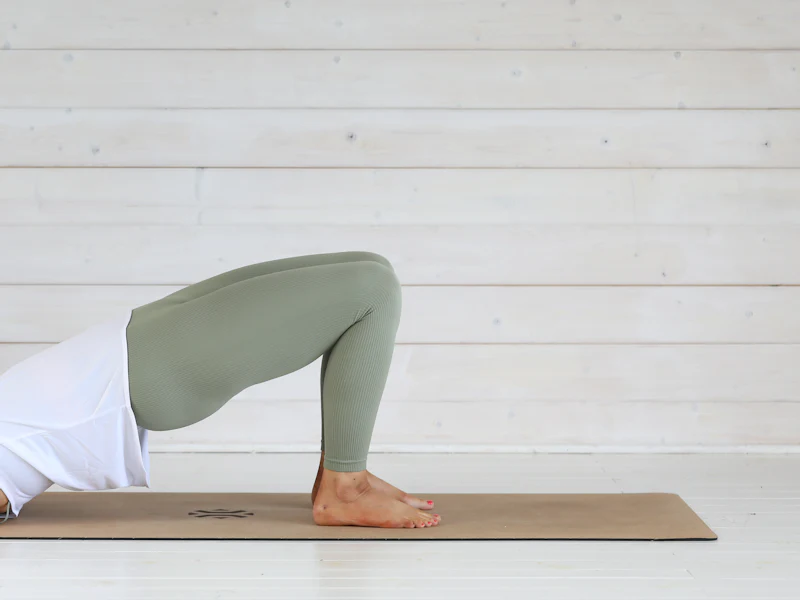
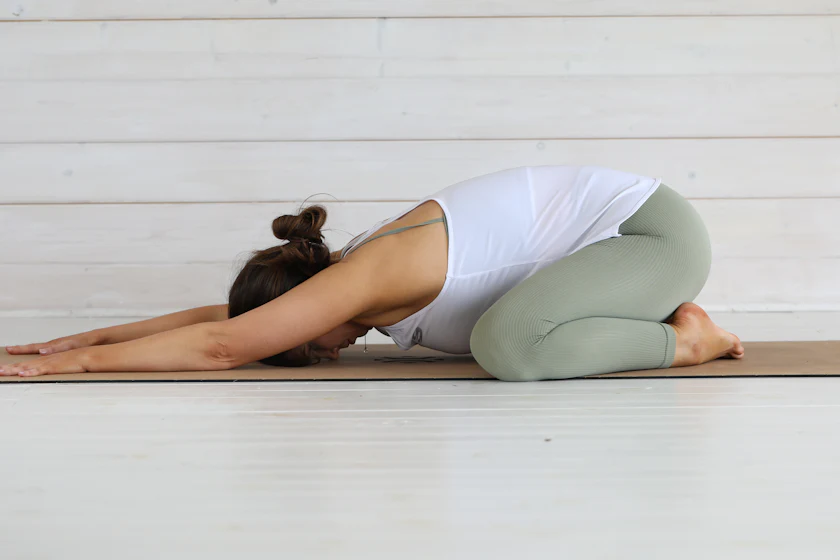
Servizi più compatti, testi continui, nuove foto box 3 e 4, overlay hero più leggero
- Servizi: box più piccole (griglia max 980px, immagini 3:2), testo
  di ogni box in un unico paragrafo
- Nuove foto: Yoga posturale (postura seduta vista di spalle) e
  pavimento pelvico (posizione del bambino), senza volti
- Hero: overlay bianco leggermente ridotto

diff --git a/index.html b/index.html
@@ -249,8 +249,7 @@
             </div>
             <div class="card-body">
               <h3>Acroyoga</h3>
-              <p>Un'esperienza di movimento che unisce elementi di Yoga e acrobatica, esplorando equilibrio, coordinazione, fiducia e collaborazione.</p>
-              <p>Un'occasione per mettersi in gioco e scoprire nuove possibilità attraverso la pratica condivisa.</p>
+              <p>Un'esperienza di movimento che unisce elementi di Yoga e acrobatica, esplorando equilibrio, coordinazione, fiducia e collaborazione. Un'occasione per mettersi in gioco e scoprire nuove possibilità attraverso la pratica condivisa.</p>
             </div>
           </article>
           <article class="card card-service reveal">
@@ -259,28 +258,25 @@
             </div>
             <div class="card-body">
               <h3>Ginnastica dolce</h3>
-              <p>Un'attività dedicata al movimento graduale e consapevole, con esercizi orientati alla mobilità, alla coordinazione e al benessere generale.</p>
-              <p>Un momento per dedicare attenzione al corpo, senza fretta e nel rispetto dei propri ritmi.</p>
+              <p>Un'attività dedicata al movimento graduale e consapevole, con esercizi orientati alla mobilità, alla coordinazione e al benessere generale. Un momento per dedicare attenzione al corpo, senza fretta e nel rispetto dei propri ritmi.</p>
             </div>
           </article>
           <article class="card card-service reveal">
             <div class="card-media">
-              <img src="assets/img/yoga-posturale.webp" alt="Una persona seduta di spalle su un tappeto, con la schiena dritta, davanti a una veranda nella luce calda del mattino" width="800" height="600" loading="lazy" decoding="async">
+              <img src="assets/img/yoga-posturale.webp" alt="Persona seduta vista di spalle, schiena dritta e mani giunte dietro la schiena, in uno studio luminoso" width="840" height="560" loading="lazy" decoding="async">
             </div>
             <div class="card-body">
               <h3>Yoga posturale</h3>
-              <p>Una pratica che valorizza attenzione al movimento, respirazione e consapevolezza della postura.</p>
-              <p>Uno spazio per esplorare il rapporto con il proprio corpo attraverso gesti controllati e presenza.</p>
+              <p>Una pratica che valorizza attenzione al movimento, respirazione e consapevolezza della postura. Uno spazio per esplorare il rapporto con il proprio corpo attraverso gesti controllati e presenza.</p>
             </div>
           </article>
           <article class="card card-service reveal">
             <div class="card-media">
-              <img src="assets/img/pavimento-pelvico.webp" alt="Posizione del ponte su un tappetino da yoga: bacino sollevato e piedi ben appoggiati" width="800" height="600" loading="lazy" decoding="async">
+              <img src="assets/img/pavimento-pelvico.webp" alt="Posizione del bambino su un tappetino da yoga, con le braccia distese in avanti e il bacino appoggiato sui talloni" width="840" height="560" loading="lazy" decoding="async">
             </div>
             <div class="card-body">
               <h3>Movimento e pavimento pelvico</h3>
-              <p>Attività orientate alla conoscenza e alla consapevolezza del pavimento pelvico, attraverso il movimento e l'attenzione corporea.</p>
-              <p>Un percorso motorio ed educativo, che non sostituisce valutazioni o trattamenti sanitari quando necessari.</p>
+              <p>Attività orientate alla conoscenza e alla consapevolezza del pavimento pelvico, attraverso il movimento e l'attenzione corporea. Un percorso motorio ed educativo, che non sostituisce valutazioni o trattamenti sanitari quando necessari.</p>
             </div>
           </article>
         </div>

diff --git a/assets/css/style.css b/assets/css/style.css
@@ -376,7 +376,7 @@ h3 {
   inset: 0;
   z-index: -2;
   background:
-    radial-gradient(ellipse at center, rgba(255, 255, 255, .93) 0%, rgba(255, 255, 255, .86) 55%, rgba(255, 255, 255, .78) 100%);
+    radial-gradient(ellipse at center, rgba(255, 255, 255, .84) 0%, rgba(255, 255, 255, .74) 55%, rgba(255, 255, 255, .62) 100%);
 }
 .hero-leaf {
   position: absolute;
@@ -502,19 +502,22 @@ h3 {
   display: grid;
   grid-template-columns: repeat(2, minmax(0, 1fr));
   grid-auto-rows: 1fr;
-  gap: clamp(1.25rem, 1rem + 1.2vw, 2rem);
+  gap: clamp(1.25rem, 1rem + 1vw, 1.75rem);
+  max-width: 980px;
+  margin-inline: auto;
 }
 .card-service { display: flex; flex-direction: column; overflow: hidden; height: 100%; }
-.card-media { aspect-ratio: 16 / 10; overflow: hidden; background: var(--cream); }
+.card-media { aspect-ratio: 3 / 2; overflow: hidden; background: var(--cream); }
 .card-media img { width: 100%; height: 100%; object-fit: cover; transition: transform 1.2s var(--ease); }
 .card-service:hover .card-media img { transform: scale(1.04); }
-.card-body { flex: 1; padding: clamp(1.75rem, 1.4rem + 1.2vw, 2.5rem); text-align: center; }
+.card-body { flex: 1; padding: clamp(1.4rem, 1.1rem + 1vw, 2rem) clamp(1.4rem, 1.1rem + 1.2vw, 2.25rem); text-align: center; }
+.card-body p { max-width: 400px; margin-inline: auto; font-size: .97rem; line-height: 1.7; }
 .card-body h3 {
   position: relative;
-  margin-bottom: 1rem;
-  padding-bottom: 1rem;
+  margin-bottom: .9rem;
+  padding-bottom: .8rem;
   font-family: var(--serif);
-  font-size: clamp(1.6rem, 1.3rem + .8vw, 2rem);
+  font-size: clamp(1.5rem, 1.25rem + .6vw, 1.8rem);
   font-weight: 500;
 }
 .card-body h3::after {
